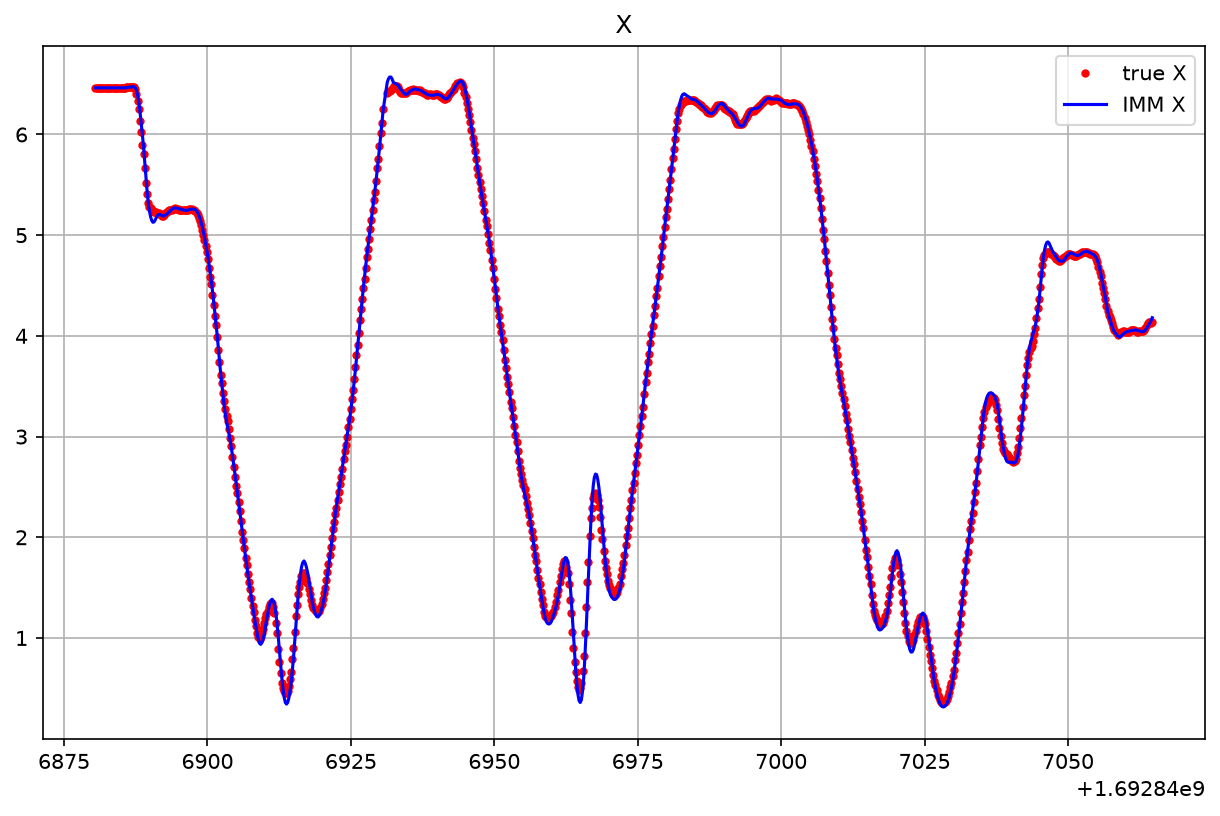
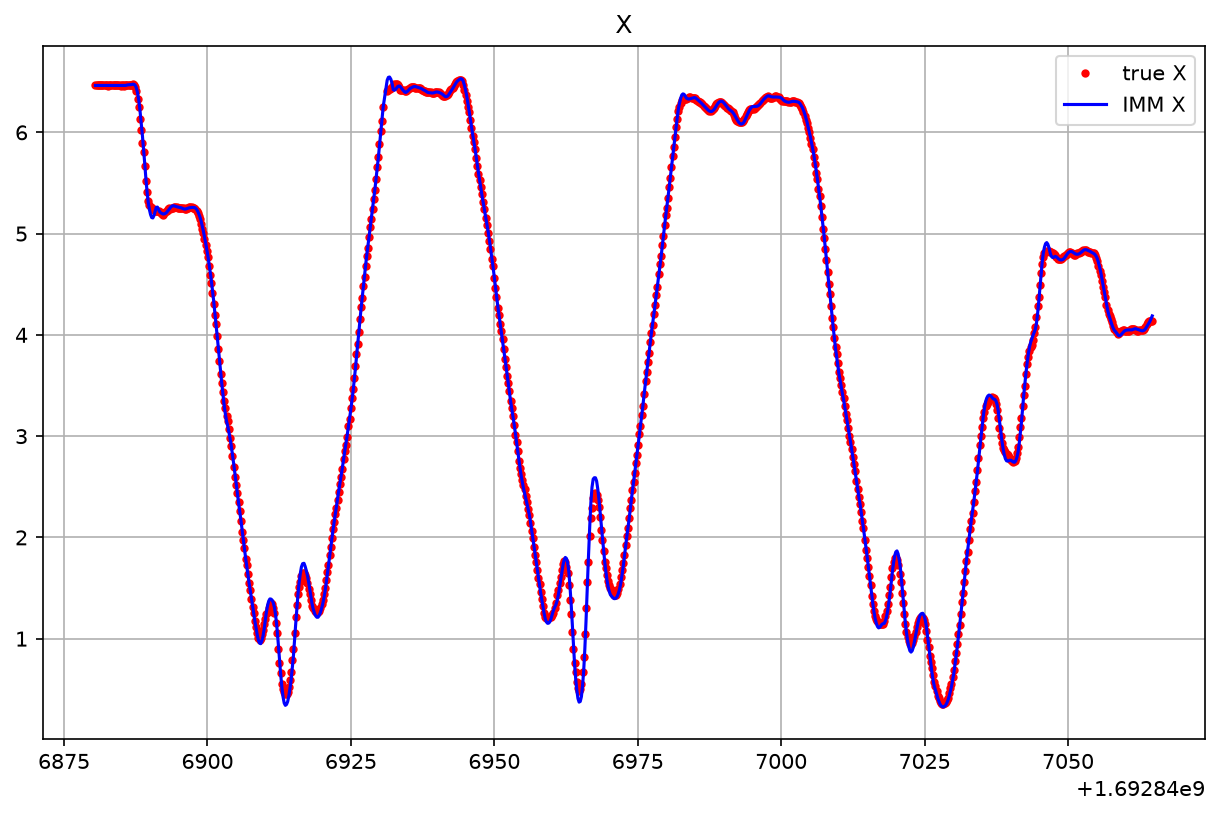
Changes

diff --git a/a.py b/a.py
@@ -23,7 +23,7 @@ class LinearPredictor:
         self.tau_obs.append(tau)
         self.pos_obs.append(np.array(pos))
 
-    def fit_model(self):
+    def fit_model(self):                #最小二乘拟合
         if len(self.tau_obs) < 2:
             return False
         tau_arr = np.array(self.tau_obs)
@@ -31,9 +31,9 @@ class LinearPredictor:
         self.coeff = np.zeros((3, 2))
         X = np.vstack([tau_arr, np.ones_like(tau_arr)]).T
         for dim in range(3):
-            y = pos_mat[:, dim]
+            y = pos_mat[:, dim]     # 提取第 dim 维的观测值，形状 (N,)
             sol, _, _, _ = np.linalg.lstsq(X, y, rcond=None)
-            self.coeff[dim] = sol
+            self.coeff[dim] = sol       # sol = [k, b]
         return True
 
     def predict_at_time(self, target_t):
@@ -52,11 +52,11 @@ class LinearPredictor:
             return np.zeros(3)
         return self.pos_obs[-1].copy()
 
-# ====================== CV3DKalmanFilter 对齐IMM_WIN：predict无参 ======================
+# ====================== CV3DKalmanFilter  ======================
 class CV3DKalmanFilter:
     def __init__(self, std_pos, std_vel):
-        self.x = np.zeros((6, 1))
-        self.P = np.diag(np.ones(6) * 1.0)          #状态估计误差
+        self.x = np.zeros((6, 1))                   #状态向量
+        self.P = np.diag(np.ones(6) * 1.0)          #状态估计误差协方差
         self.std_pos = std_pos
         self.std_vel = std_vel
         self.dt = None
@@ -87,19 +87,19 @@ class CV3DKalmanFilter:
         q1 = self.std_vel ** 2 * dt4 / 4
         q2 = self.std_vel ** 2 * dt3 / 2
         q3 = self.std_vel ** 2 * dt2
-        self.Q = np.array([
+        self.Q = np.array([                          #过程噪声协方差矩阵
             [q1, 0, 0, q2, 0, 0],
             [0, q1, 0, 0, q2, 0],
             [0, 0, q1, 0, 0, q2],
             [q2, 0, 0, q3, 0, 0],
             [0, q2, 0, 0, q3, 0],
             [0, 0, q2, 0, 0, q3]
-        ])                                              #过程噪声协方差矩阵
-        self.H = np.array([
+        ])
+        self.H = np.array([                         #观测矩阵
             [1, 0, 0, 0, 0, 0],
             [0, 1, 0, 0, 0, 0],
             [0, 0, 1, 0, 0, 0]
-        ])                                      #观测矩阵
+        ])
         self.R = np.diag([self.std_pos**2, self.std_pos**2, self.std_pos**2])           #观察噪音
 
     def predict(self):
@@ -108,19 +108,20 @@ class CV3DKalmanFilter:
         self.P = self.F @ self.P @ self.F.T + self.Q
 
     def correct(self, z):
-        z = np.array(z).reshape(3, 1)
-        y = z - self.H @ self.x
-        S = self.H @ self.P @ self.H.T + self.R
-        S += 1e-8 * np.eye(3)
-        K = self.P @ self.H.T @ np.linalg.inv(S)
-        self.x = self.x + K @ y
+        z = np.array(z).reshape(3, 1)               #三维位置观测值
+        y = z - self.H @ self.x                     #观察残差
+        S = self.H @ self.P @ self.H.T + self.R     #新息协方差矩阵
+        S += 1e-8 * np.eye(3)                       #防止奇异
+        K = self.P @ self.H.T @ np.linalg.inv(S)    #卡尔曼增益计算
+        self.x = self.x + K @ y                     #状态更新
         I6 = np.eye(6)
         self.P = (I6 - K @ self.H) @ self.P @ (I6 - K @ self.H).T + K @ self.R @ K.T
+                                                    #状态估计误差协方差更新
 
     def get_pos(self):
         return self.x[:3,0]
 
-# ====================== CA3DKalmanFilter 对齐IMM_WIN：分步构造Q矩阵 ======================
+# ====================== CA3DKalmanFilter =====================
 
 class CA3DKalmanFilter:
     def __init__(self, std_pos, std_acc):
@@ -128,7 +129,7 @@ class CA3DKalmanFilter:
         self.x = np.zeros((9, 1))
         self.P = np.diag(np.ones(9) * 1.0)   # 初始协方差
         self.std_pos = std_pos                # 位置观测噪声标准差 [m]
-        self.std_acc = std_acc                # 加速度过程噪声（jerk）标准差 [m/s²?]
+        self.std_acc = std_acc                # 加速度过程噪声（jerk）标准差 [m/s^2.5]
         self.dt = None
 
     def init_state(self, pos, vel=None, acc=None):
@@ -146,17 +147,16 @@ class CA3DKalmanFilter:
         dt4 = dt ** 4
         dt5 = dt ** 5
 
-
-        I3 = np.eye(3)
-        Z3 = np.zeros((3,3))
+        I3 = np.eye(3)  # 3×3 单位矩阵
+        Z3 = np.zeros((3, 3))  # 3×3 零矩阵
         self.F = np.block([
-            [I3, dt * I3, 0.5 * dt2 * I3],
-            [Z3, I3,      dt * I3],
-            [Z3, Z3,      I3]
+            [I3, dt * I3, 0.5 * dt2 * I3],  # 位置
+            [Z3, I3, dt * I3],  # 速度
+            [Z3, Z3, I3]  # 加速度
         ])
 
-        # 单轴过程噪声协方差 Q1d（来自 jerk 白噪声模型）
-        sa2 = self.std_acc ** 2
+        # 单轴过程噪声协方差 （来自 jerk(加加速度) 白噪声模型）
+        sa2 = self.std_acc ** 2         #加速度过程噪声的方差强度
         # 单轴系数
         q11 = sa2 * dt5 / 20   # 位置方差
         q12 = sa2 * dt4 / 8    # 位置-速度协方差
@@ -173,7 +173,11 @@ class CA3DKalmanFilter:
         ])
 
         # 观测矩阵：只测量位置，H = [I3, 0, 0]
-        self.H = np.hstack([np.eye(3), np.zeros((3,6))])
+        self.H =np.array([
+            [1, 0, 0, 0, 0, 0, 0, 0, 0],
+            [0, 1, 0, 0, 0, 0, 0, 0, 0],
+            [0, 0, 1, 0, 0, 0, 0, 0, 0]
+        ])
 
         # 观测噪声协方差（各轴独立、等方差）
         self.R = np.diag([self.std_pos**2] * 3)
@@ -207,9 +211,9 @@ class IMM3DFilter:
             CV3DKalmanFilter(std_pos, std_vel_cv),
             CA3DKalmanFilter(std_pos, std_acc_ca)
         ]
-        self.mu = np.array([0.8, 0.2])
+        self.mu = np.array([0.5, 0.5])       # 初始模型概率
         if trans_matrix is None:
-            self.trans = np.array([
+            self.trans = np.array([         #马尔可夫转移矩阵
                 [0.9995, 0.0005],
                 [0.0005, 0.9995]
             ])
@@ -234,15 +238,16 @@ class IMM3DFilter:
         c_bar = trans.T @ mu
         # 防除零，极小值兜底
         c_bar[c_bar < 1e-12] = 1e-12
-        mu_ij = np.zeros_like(trans)
+        mu_ij = np.zeros_like(trans)        #计算混合权重
         for j in range(2):
             for i in range(2):
                 mu_ij[i,j] = trans[i,j] * mu[i] / c_bar[j]
-        x_cv = self.filters[0].x.copy()
+        # 提取各滤波器状态和协方差
+        x_cv = self.filters[0].x.copy()         # CV 滤波器上一时刻状态 (6,1)
         P_cv = self.filters[0].P.copy()
-        x_ca = self.filters[1].x.copy()
+        x_ca = self.filters[1].x.copy()         # CA 滤波器状态 (9,1)
         P_ca = self.filters[1].P.copy()
-        x_ca_6 = x_ca[:6, :].copy()
+        x_ca_6 = x_ca[:6, :].copy()         # 取CA的前6维（位置+速度），丢弃加速度
         P_ca_6 = P_ca[:6, :6].copy()
         # 混合CV
         x0_mix = mu_ij[0,0] * x_cv + mu_ij[1,0] * x_ca_6
@@ -260,31 +265,41 @@ class IMM3DFilter:
         return [x0_mix, x1_mix], [P0_mix, P1_mix], c_bar
 
     def predict(self):
-        mixed_x, mixed_P, _ = self._mix_state()
-        self.filters[0].x = mixed_x[0]
-        self.filters[0].P = mixed_P[0]
-        self.filters[1].x = mixed_x[1]
-        self.filters[1].P = mixed_P[1]
-        self.filters[0].predict()
+        mixed_x, mixed_P, self.c_bar = self._mix_state()
+        self.filters[0].x = mixed_x[0]      #cv状态混合
+        self.filters[0].P = mixed_P[0]      #cv协方差混合
+        self.filters[1].x = mixed_x[1]      #ca状态混合
+        self.filters[1].P = mixed_P[1]      #ca协方差混合
+        self.filters[0].predict()           #独立预测
         self.filters[1].predict()
 
     def correct(self, z):
+        def calc_log_like(filter_inst, z_meas):       #计算给定滤波器在观测计算给定滤波器在观测z下的对数似然
+            z_pred = filter_inst.H @ filter_inst.x
+            v = z_meas - z_pred                                                     #新息
+            S = filter_inst.H @ filter_inst.P @ filter_inst.H.T + filter_inst.R     #新息协方差矩阵
+            S += 1e-10 * np.eye(3)
+            detS = np.linalg.det(S)                                                 #计算行列式S
+            detS = max(detS, 1e-15)                                            #防止detS为0
+            invS = np.linalg.inv(S)                                             #计算S^-1
+            quad = (v.T @ invS @ v).item()                                  #计算二次型 v^T S^-1 v,马氏距离的平方
+            log_det = np.log(detS)                                          #logS
+            log_lik = -0.5 * (quad + 3 * np.log(2 * np.pi) + log_det)       #对数似然值，表征在当前模型预测下，观测 z 出现的合理程度
+            return log_lik
+
         z = np.array(z).reshape(3, 1)
         self.filters[0].correct(z)
         self.filters[1].correct(z)
+        L0 = calc_log_like(self.filters[0], z)
+        L1 = calc_log_like(self.filters[1], z)
+        # 数值稳定处理
+        L_max = max(L0, L1)
+        L0 = np.exp(L0 - L_max)
+        L1 = np.exp(L1 - L_max)
+        self.mu = np.array([L0 * self.c_bar[0], L1 * self.c_bar[1]])     #c_bar是预测边缘概率,mu更新边缘概率
+        self.mu /= self.mu.sum()        #归一化处理
 
-        def calc_log_like(filter_inst, z_meas):
-            z_pred = filter_inst.H @ filter_inst.x
-            v = z_meas - z_pred
-            S = filter_inst.H @ filter_inst.P @ filter_inst.H.T + filter_inst.R
-            S += 1e-10 * np.eye(3)
-            detS = np.linalg.det(S)
-            detS = max(detS, 1e-15)
-            invS = np.linalg.inv(S)
-            quad = float(v.T @ invS @ v)
-            log_det = np.log(detS)
-            log_lik = -0.5 * (quad + 3 * np.log(2 * np.pi) + log_det)
-            return log_lik
+
 
     def get_pos(self):
         pos0 = self.filters[0].get_pos()
@@ -309,9 +324,9 @@ def compute_pred_only_metrics(gt_win_full, pred_win_full, obs_steps):
         return np.nan, np.nan, np.nan, np.nan, np.nan, np.nan
     err = gt_pred - pred_pred
     disp_err = np.linalg.norm(err, axis=1)
-    rmse = np.sqrt(np.mean(np.sum(err**2, axis=1)))
-    ade = np.mean(disp_err)
-    fde = disp_err[-1]
+    rmse = np.sqrt(np.mean(np.sum(err**2, axis=1)))     #均方根误差
+    ade = np.mean(disp_err)                             #平均位移误差
+    fde = disp_err[-1]                                  #最终位移误差
     rmse_x = np.sqrt(np.mean(err[:,0]**2))
     rmse_y = np.sqrt(np.mean(err[:,1]**2))
     rmse_z = np.sqrt(np.mean(err[:,2]**2))
@@ -413,7 +428,7 @@ if __name__ == "__main__":
     gt_all = gt_all[mask]
     print(f"成功加载轨迹数据：共 {len(gt_all)} 个有效点")
 
-    target_win_idx = 700
+    target_win_idx = 236
     win_total_len = obs_steps + pred_steps
     start = target_win_idx * stride
     end = start + win_total_len

diff --git a/IMM.py b/IMM.py
@@ -158,8 +158,8 @@ class IMM3DFilter:
             CV3DKalmanFilter(std_pos, std_vel_cv),
             CA3DKalmanFilter(std_pos, std_acc_ca)
         ]
-        self.mu = np.array([0.8, 0.2])
-        if trans_matrix is None:
+        self.mu = np.array([0.5, 0.5])           # 初始模型概率
+        if trans_matrix is None:            # Markov 转移概率矩阵
             self.trans = np.array([
                 [0.9995, 0.0005],
                 [0.0005, 0.9995]
@@ -180,12 +180,11 @@ class IMM3DFilter:
             f.update_F_Q(dt)
 
     def _mix_state(self):
-        mu = self.mu.copy()
-        trans = self.trans
-        c_bar = trans.T @ mu
-        # 防除零，极小值兜底
-        c_bar[c_bar < 1e-12] = 1e-12
-        mu_ij = np.zeros_like(trans)
+        mu = self.mu.copy()          # 上一时刻的模型概率 [μ1, μ2]
+        trans = self.trans          # 转移矩阵 Π
+        c_bar = trans.T @ mu        # 预测的模型概率（归一化常数）
+        c_bar[c_bar < 1e-12] = 1e-12        # 防除零，极小值兜底
+        mu_ij = np.zeros_like(trans)        #计算混合权重
         for j in range(2):
             for i in range(2):
                 mu_ij[i,j] = trans[i,j] * mu[i] / c_bar[j]
@@ -211,7 +210,7 @@ class IMM3DFilter:
         return [x0_mix, x1_mix], [P0_mix, P1_mix], c_bar
 
     def predict(self):
-        mixed_x, mixed_P, _ = self._mix_state()
+        mixed_x, mixed_P, self.c_bar = self._mix_state()
         self.filters[0].x = mixed_x[0]
         self.filters[0].P = mixed_P[0]
         self.filters[1].x = mixed_x[1]
@@ -220,10 +219,6 @@ class IMM3DFilter:
         self.filters[1].predict()
 
     def correct(self, z):
-        z = np.array(z).reshape(3, 1)
-        self.filters[0].correct(z)
-        self.filters[1].correct(z)
-
         def calc_log_like(filter_inst, z_meas):
             z_pred = filter_inst.H @ filter_inst.x
             v = z_meas - z_pred
@@ -232,10 +227,23 @@ class IMM3DFilter:
             detS = np.linalg.det(S)
             detS = max(detS, 1e-15)
             invS = np.linalg.inv(S)
-            quad = float(v.T @ invS @ v)
+            quad = (v.T @ invS @ v).item()
             log_det = np.log(detS)
             log_lik = -0.5 * (quad + 3 * np.log(2 * np.pi) + log_det)
             return log_lik
+
+        z = np.array(z).reshape(3, 1)
+        self.filters[0].correct(z)
+        self.filters[1].correct(z)
+        L0 = calc_log_like(self.filters[0], z)
+        L1 = calc_log_like(self.filters[1], z)
+        # 数值稳定处理
+        L_max = max(L0, L1)
+        L0 = np.exp(L0 - L_max)
+        L1 = np.exp(L1 - L_max)
+        # 注意：需要获取 c_bar（应在 predict 中保存为 self.c_bar）
+        self.mu = np.array([L0 * self.c_bar[0], L1 * self.c_bar[1]])
+        self.mu /= self.mu.sum()
 
     def get_pos(self):
         pos0 = self.filters[0].get_pos()

diff --git a/CA_KF.py b/CA_KF.py
@@ -27,17 +27,13 @@ class CA3DKalmanFilter:
         dt4 = dt ** 4
         dt5 = dt ** 5
 
-        # 单轴CA模型的转移矩阵(3x3)，可视为基础块
-        #F1d = [[1, dt, dt²/2],
-               # [0,  1, dt   ],
-        #        [0,  0, 1    ]]
-        # 用块矩阵构建整个9x9的F，每个块是标量乘3x3单位阵
-        I3 = np.eye(3)
-        Z3 = np.zeros((3,3))
+
+        I3 = np.eye(3)      # 3×3 单位矩阵
+        Z3 = np.zeros((3,3))    # 3×3 零矩阵
         self.F = np.block([
-            [I3, dt * I3, 0.5 * dt2 * I3],
-            [Z3, I3,      dt * I3],
-            [Z3, Z3,      I3]
+            [I3, dt * I3, 0.5 * dt2 * I3],              #位置
+            [Z3,   I3   ,    dt * I3    ],              #速度
+            [Z3,   Z3   ,       I3      ]               #加速度
         ])
 
         # 单轴过程噪声协方差 Q1d（来自 jerk 白噪声模型）
@@ -98,7 +94,7 @@ def compute_pred_only_metrics(gt_win_full, pred_win_full, obs_steps):
         return np.nan, np.nan, np.nan, np.nan, np.nan, np.nan
 
     err = gt_pred - pred_pred
-    disp_err = np.linalg.norm(err, axis=1)
+    disp_err = np.linalg.norm(err, axis=1).lll
 
     rmse = np.sqrt(np.mean(np.sum(err**2, axis=1)))
     ade = np.mean(disp_err)

diff --git a/Linear.py b/Linear.py
@@ -2,7 +2,7 @@ import numpy as np
 import os
 import matplotlib.pyplot as plt
 
-# ====================== 线性回归预测器（仅保留此模型） ======================
+# ====================== 线性回归预测器 ======================
 class LinearPredictor:
     def __init__(self, std_pos=None):
         self.t0 = None        # 当前窗口第一条观测的时间（时间基准原点）
